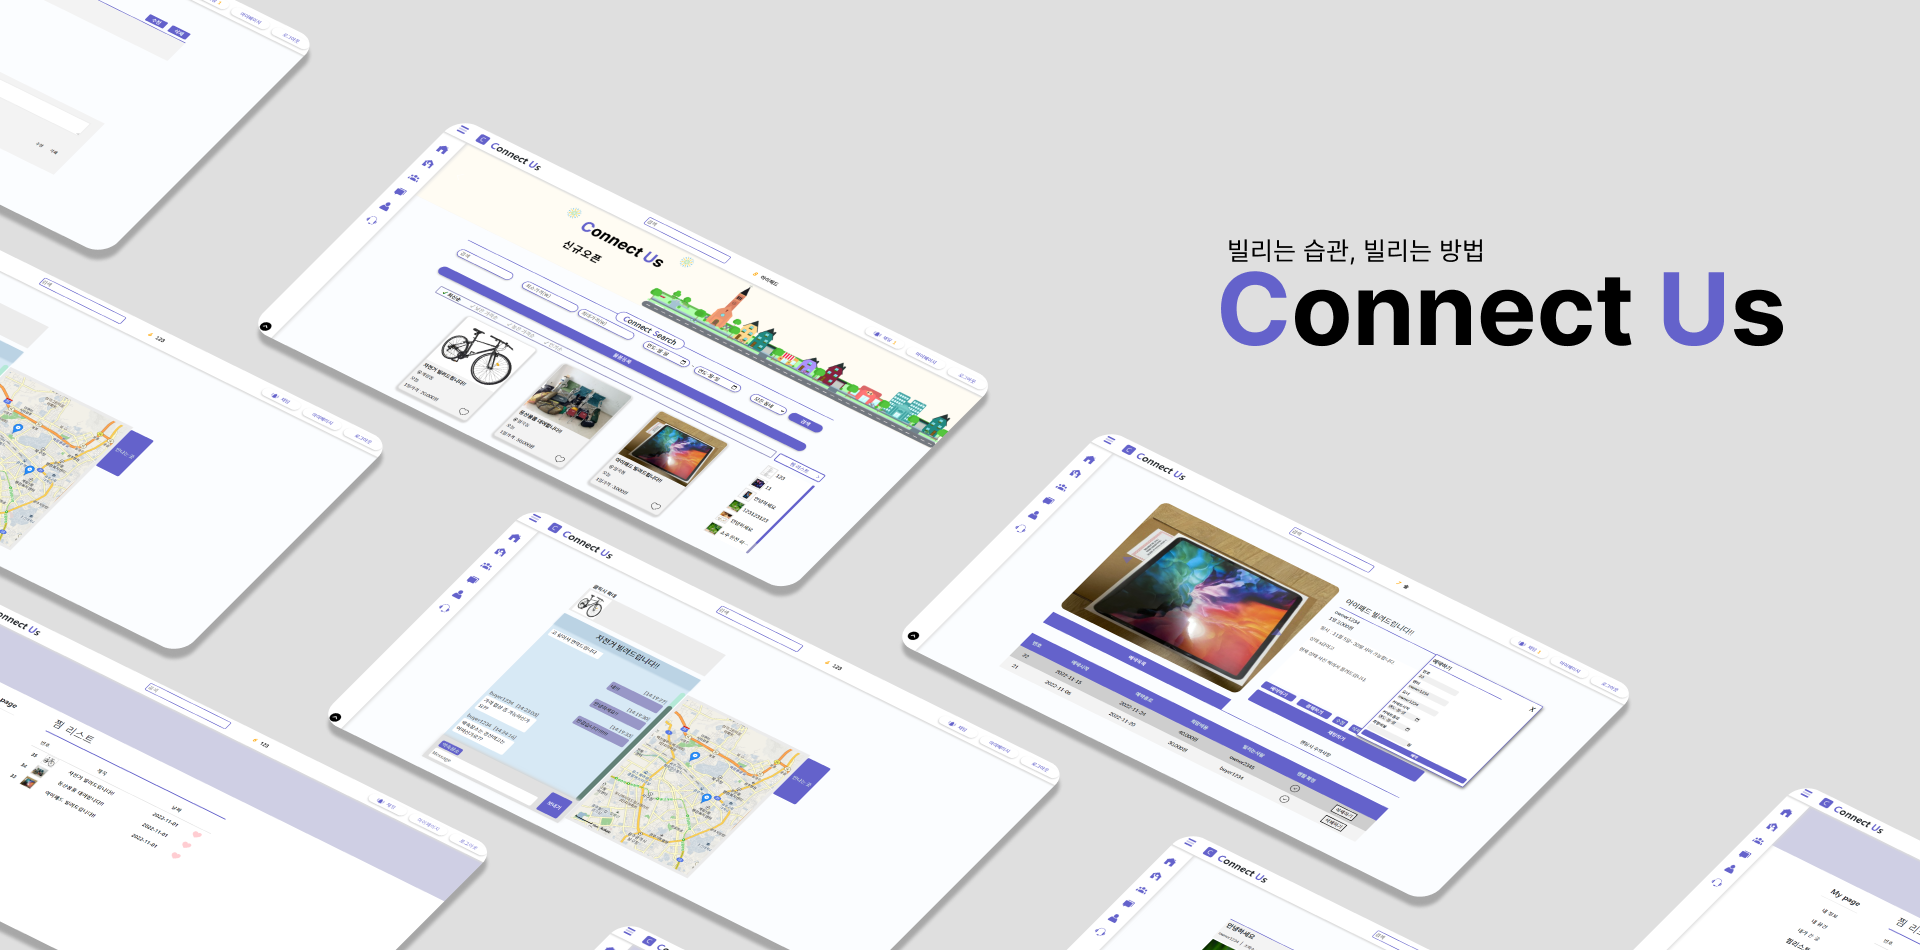
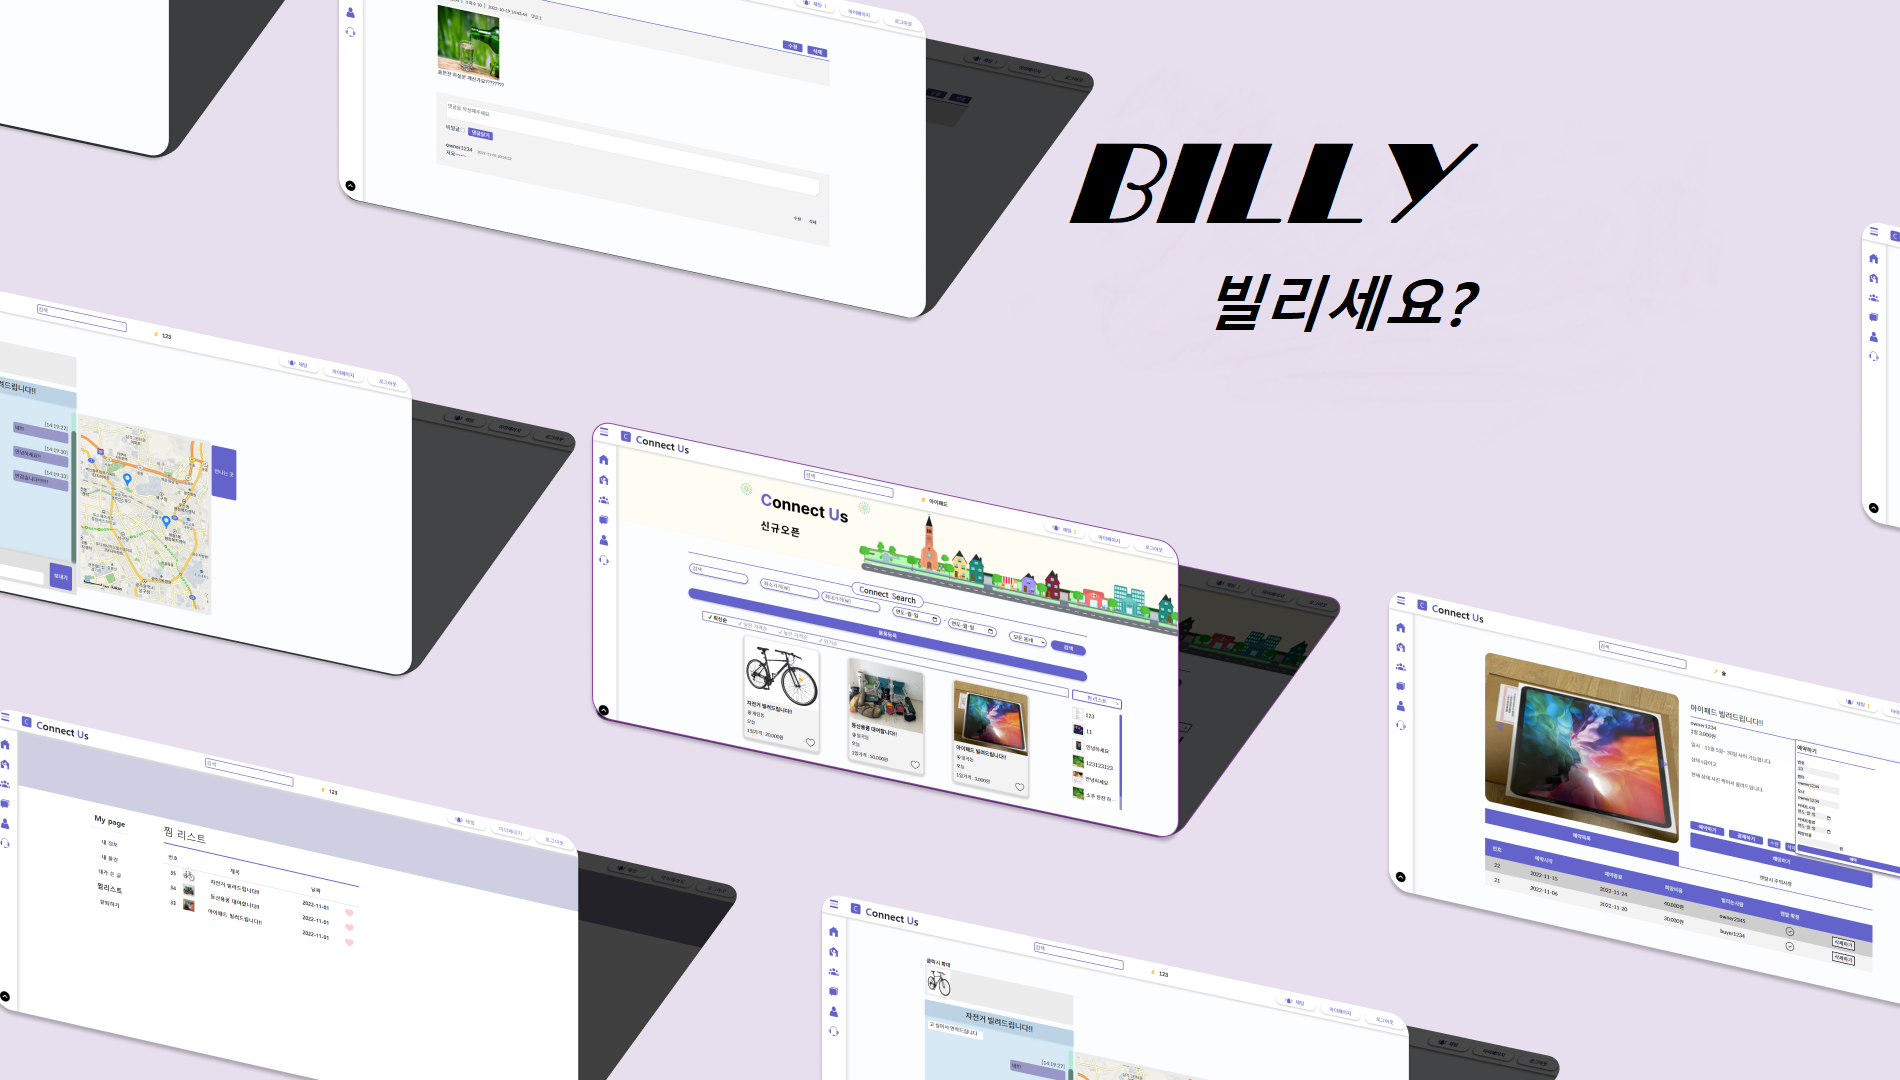
favicon_Logo_MainPage_Design_Changed

diff --git a/src/main/resources/static/css/home.css b/src/main/resources/static/css/home.css
@@ -4,6 +4,22 @@ body {
   position: relative;
 }
 
+.billyHomeLink {
+  position: absolute;
+  width: 600px;
+  height: 200px;	
+  top: 100px;
+  right : 330px;
+  z-index: 1;
+}
+
+.billyHomeLink:hover {
+  border-bottom: solid 7px silver;
+  border-right: solid 7px silver;
+  border-radius: 50px;	
+}
+
+
 .home3 {
   width: 100vw;
   height: 100vh;

diff --git a/src/main/resources/static/css/header.css b/src/main/resources/static/css/header.css
@@ -65,6 +65,7 @@ li {
   bottom: 3%;
   left: 1.5rem;
   z-index: 11;
+  cursor: pointer;
 }
 
 .up img {
@@ -253,7 +254,7 @@ li {
 
 .header-sign-box a {
   color: #cddfe0;
-  font-size: 0.8vw;
+  font-size: 1vw;
   margin-right: 1rem;
   width: 8rem;
   height: 2rem;

diff --git a/src/main/resources/static/css/product.css b/src/main/resources/static/css/product.css
@@ -265,9 +265,9 @@
   top: 9.5rem;
   left: 0;
   text-align: center;
-  padding-top: 0.3rem;
+  padding-top: 0.5rem;
   box-shadow: 0px 3px 5px rgb(196, 196, 196);
-  font-size: 22px;
+  font-size: 20px;
 }
 
 .product-register:hover {
